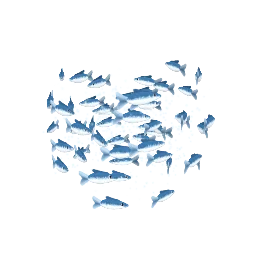
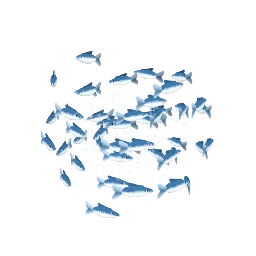
Phase E6b: keep each toy's framing as it was; fish school thumbnail
Hidden effect pieces counted in the camera's framing and shrank some toys
in their frame (the frog, crown, Eiffel Tower, pyramids, Statue of Liberty,
Taj Mahal and sea urchin). They are now built within each toy's resting
bounds and moved or grown out by their parts, or left out of the fit, so
every toy is framed exactly as on main. The school of fish is re-rendered:
its fish are now separate pieces in slightly different places.

Claude-Session: https://claude.ai/code/session_01D75yHccYeL9b2vKuqy5gEB

Changed region(s): [[0.1562, 0.1875, 0.8438, 0.875]]

diff --git a/src/packs/landmarks.js b/src/packs/landmarks.js
@@ -339,6 +339,7 @@ const EIF_BURSTS = [
   { c: add(mul(EIF_VIEW_R, 0.62), [0, 1.7, 0.05]), r: 0.4, a: "#ffb52e", b: "#fff2b0", at: 2.1 },
 ];
 const EIF_SECS = 4.2;
+const EIF_BUILT = 0.6;
 
 // A firework burst: rays of sparks from the centre with bright tips, built
 // at its fullest (drive() grows it with its part's scale and fades it).
@@ -488,8 +489,10 @@ function eiffelBuild(k) {
     }),
   });
   // Fireworks round the tower (drive() pops them one after another).
+  // Each is built at EIF_BUILT of its size, inside the tower's reach, and
+  // grown by its part.
   EIF_BURSTS.forEach((B, i) =>
-    burst(k, k.part(`burst${i}`, { pivot: B.c }), B.c, B.r, B.a, B.b, 0.03),
+    burst(k, k.part(`burst${i}`, { pivot: B.c }), B.c, B.r * EIF_BUILT, B.a, B.b, 0.03),
   );
   // The top: a deck, the lantern and the antenna.
   const iron = (c) => lit(brown, c, 0.62);
@@ -712,8 +715,8 @@ function pyramid(k, cx, cy, cz, half, h, { cap = 0, weight = 1 } = {}) {
 const PYR = {
   r: [0.85, 0, -0.52],
   f: [0.52, 0, 0.85],
-  ground: [1.75, 0, 0.45],
-  hover: [1.75, 1.34, 0.45],
+  ground: [1.6, 0, 0.5],
+  hover: [1.6, 1.34, 0.5],
   secs: 5.4,
 };
 
@@ -827,7 +830,7 @@ function pyramidsBuild(k) {
     const S = 1.45;
     const to = add(PYR.ground, add(add(mul(r, cp[0] * S), [0, cp[1] * S + 0.02, 0]), mul(side, cp[2] * S))); // prettier-ignore
     const n = unit(add(add(mul(r, cn[0]), [0, cn[1], 0]), mul(side, cn[2])));
-    const g = add(PYR.ground, add(mul(r, cp[0] * 1.5), mul(side, cp[2] * 2.5 + (rand() - 0.5) * 0.2))); // prettier-ignore
+    const g = add(PYR.ground, add(mul(r, cp[0]), mul(side, cp[2] * 1.5 + (rand() - 0.5) * 0.14))); // prettier-ignore
     const light = 0.62 + 0.38 * Math.max(0, n[0] * SUN[0] + n[1] * SUN[1] + n[2] * SUN[2]);
     return {
       p: [g[0], -0.025, g[2]],
@@ -1501,46 +1504,41 @@ function libertyBuild(k) {
     params: [0.06 + 0.04 * rand(), rand()],
   }));
   const hp = F.p(add(fb, [0, 0.06, 0]));
-  k.cloud(
-    { share: 0.005, size: 2.6, pattern: false, part: k.part("halo", { pivot: hp }) },
-    (rand) => {
-      // prettier-ignore
-      const d = unit([rand() - 0.5, rand() - 0.5, rand() - 0.5]);
-      const r = 0.1 * Math.sqrt(rand());
-      return {
-        p: add(hp, mul(d, r)),
-        color: mix("#ffe9a0", "#fff8e0", rand()),
-        opacity: 0.16 * (1 - r / 0.12),
-        kind: "fade",
-        channel: 1,
-        params: [0.3, -0.5],
-      };
-    },
-  );
+  // (Built small, within the torch's reach, and grown by its part.)
+  const halo = k.part("halo", { pivot: hp });
+  k.cloud({ share: 0.005, size: 2.6, pattern: false, part: halo }, (rand) => {
+    const d = unit([rand() - 0.5, rand() - 0.5, rand() - 0.5]);
+    const r = 0.055 * Math.sqrt(rand());
+    return {
+      p: add(hp, mul(d, r)),
+      color: mix("#ffe9a0", "#fff8e0", rand()),
+      opacity: 0.16 * (1 - r / 0.066),
+      kind: "fade",
+      channel: 1,
+      params: [0.3, -0.5],
+    };
+  });
   // Sparks drift up and away on the harbour breeze (to the right as seen
   // from the home view), by channel 0.
   k.fitMorphs = false;
   // Each spark's target lies in a plume that widens as it rises and bends
   // with the wind, so the spray streams out of the torch.
-  k.cloud(
-    { share: 0.005, size: 1.3, pattern: false, part: k.part("sparks", { pivot: fp }) },
-    (rand) => {
-      // prettier-ignore
-      const t = Math.pow(rand(), 0.8);
-      const centre = add([0, 0.08 + 0.42 * t, 0], mul([0.85, 0, -0.52], 0.55 * t * t));
-      const d = unit([rand() - 0.5, rand() - 0.5, rand() - 0.5]);
-      const r = (0.02 + 0.17 * t) * Math.sqrt(rand());
-      return {
-        p: add(fp, [(rand() - 0.5) * 0.03, rand() * 0.04, (rand() - 0.5) * 0.03]),
-        color: mix("#ffc23a", "#fff4c8", rand()),
-        opacity: 0.95,
-        size: 1.25 - 0.5 * t,
-        kind: "morph",
-        channel: 0,
-        to: add(fp, add(centre, mul(d, r))),
-      };
-    },
-  );
+  const sparks = k.part("sparks", { pivot: fp });
+  k.cloud({ share: 0.005, size: 1.3, pattern: false, part: sparks }, (rand) => {
+    const t = Math.pow(rand(), 0.8);
+    const centre = add([0, 0.08 + 0.42 * t, 0], mul([0.85, 0, -0.52], 0.55 * t * t));
+    const d = unit([rand() - 0.5, rand() - 0.5, rand() - 0.5]);
+    const r = (0.02 + 0.17 * t) * Math.sqrt(rand());
+    return {
+      p: add(fp, [(rand() - 0.5) * 0.03, rand() * 0.04, (rand() - 0.5) * 0.03]),
+      color: mix("#ffc23a", "#fff4c8", rand()),
+      opacity: 0.95,
+      size: 1.25 - 0.5 * t,
+      kind: "morph",
+      channel: 0,
+      to: add(fp, add(centre, mul(d, r))),
+    };
+  });
   // The left arm cradling the tablet.
   const armL = spline([
     [0.11, 0.49, 0],
@@ -1987,23 +1985,20 @@ function pisaBuild(k) {
       },
     });
     const foot = [land[0], 0.03, land[2]];
-    k.cloud(
-      { share: 0.004, size: 1.6, pattern: false, part: k.part(`dust${i}`, { pivot: foot }) },
-      (rand) => {
-        // prettier-ignore
-        const a = rand() * TAU;
-        const d = r * (1.2 + 1.6 * rand());
-        return {
-          p: add(foot, [
-            Math.cos(a) * d,
-            0.01 + 0.06 * rand() * (1 - (d - r) / (3 * r)),
-            Math.sin(a) * d,
-          ]),
-          color: mix("#c9b48c", "#e8dcc0", rand()),
-          opacity: 0.45,
-        };
-      },
-    );
+    const dust = k.part(`dust${i}`, { pivot: foot });
+    k.cloud({ share: 0.004, size: 1.6, pattern: false, part: dust }, (rand) => {
+      const a = rand() * TAU;
+      const d = r * (1.2 + 1.6 * rand());
+      return {
+        p: add(foot, [
+          Math.cos(a) * d,
+          0.01 + 0.06 * rand() * (1 - (d - r) / (3 * r)),
+          Math.sin(a) * d,
+        ]),
+        color: mix("#c9b48c", "#e8dcc0", rand()),
+        opacity: 0.45,
+      };
+    });
   });
 }
 
@@ -2933,7 +2928,7 @@ function benBuild(k) {
 
 // Moonlight at the Taj Mahal: the moon hangs behind it, left of the dome as
 // seen from the home view.
-const TAJ = { moon: [-1.02, 1.45, -1.15], secs: 5.2 };
+const TAJ = { moon: [-0.98, 1.42, -0.95], secs: 5.2 };
 
 function tajBuild(k) {
   // Night falls on channel 1 (a cool dusk, drive()'s negative glow) on
@@ -3209,29 +3204,26 @@ function tajBuild(k) {
   });
   k.cloud({ share: 0.006, size: 3, pattern: false, part: moon, fit: false }, (rand) => {
     const d = unit([rand() - 0.5, rand() - 0.5, rand() - 0.5]);
-    const r = 0.15 + 0.16 * Math.sqrt(rand());
+    const r = 0.15 + 0.11 * Math.sqrt(rand());
     return {
       p: add(TAJ.moon, mul(d, r)),
       color: "#dfe8ff",
-      opacity: 0.14 * (1 - (r - 0.15) / 0.18),
+      opacity: 0.14 * (1 - (r - 0.15) / 0.13),
       kind: "fade",
       channel: 0,
       params: [0.05, -0.5],
     };
   });
-  k.cloud(
-    { share: 0.006, size: 1.2, pattern: false, part: k.part("shimmer", { pivot: [0, g, 1.9] }) },
-    (rand) => ({
-      // prettier-ignore
-      p: [(rand() - 0.5) * 0.12 * (0.4 + rand()), g + 0.01, 1.16 + rand() * 1.48],
-      dir: [1, 0, 0],
-      stretch: 2.5,
-      color: mix("#e8efff", "#ffffff", rand()),
-      opacity: 0.85,
-      kind: "wave",
-      params: [0.006, rand() * TAU],
-    }),
-  );
+  const shimmer = k.part("shimmer", { pivot: [0, g, 1.9] });
+  k.cloud({ share: 0.006, size: 1.2, pattern: false, part: shimmer }, (rand) => ({
+    p: [(rand() - 0.5) * 0.12 * (0.4 + rand()), g + 0.01, 1.16 + rand() * 1.48],
+    dir: [1, 0, 0],
+    stretch: 2.5,
+    color: mix("#e8efff", "#ffffff", rand()),
+    opacity: 0.85,
+    kind: "wave",
+    params: [0.006, rand() * TAU],
+  }));
 }
 
 // ---- Castle ------------------------------------------------------------------------------------
@@ -3873,7 +3865,7 @@ export const RECIPES = {
         const u = on ? (s - B.at) / 1.8 : -1;
         const live = u > 0 && u < 1;
         out.parts[`burst${i}`] = {
-          scale: 0.06 + 0.94 * easeOut(clamp(u / 0.2, 0, 1)),
+          scale: (0.06 + 0.94 * easeOut(clamp(u / 0.2, 0, 1))) / EIF_BUILT,
           offset: [0, -0.16 * Math.max(0, u) ** 2, 0],
           visible: live ? 1 - band(u, 0.5, 1) : 0,
         };
@@ -3987,7 +3979,7 @@ export const RECIPES = {
       const big = on ? easeOut(band(s, 0, 0.35)) * (1 - easeInOut(band(s, 2.8, 3.7))) : 0;
       const flick = 1 + 0.08 * Math.sin(info.time * 23) * big;
       out.parts.flame = { scale: (1 + 1.2 * big) * flick };
-      out.parts.halo = { scale: 0.6 + 1.1 * big, visible: big > 0.01 ? 1 : 0 };
+      out.parts.halo = { scale: 1.1 + 2 * big, visible: big > 0.01 ? 1 : 0 };
       const drift = on ? easeOut(band(s, 0.15, 3.3)) : 0;
       const live = on && s < 3.3;
       out.parts.sparks = { visible: live ? band(s, 0.1, 0.2) * (1 - band(s, 2.3, 3.2)) : 0 };

diff --git a/src/packs/animals.js b/src/packs/animals.js
@@ -170,6 +170,7 @@ const FROG = (() => {
     hinge,
     open,
     catch: catchAt,
+    flyBuilt: [catchAt[0], catchAt[1], 0.45],
     from: [-0.75, 0.42, -0.1],
     tipRest,
     tipFull: unJaw(catchAt),
@@ -1705,6 +1706,9 @@ export const RECIPES = {
       }
       // Each spine tilts sideways (round the urchin) on its base by one of
       // channels 0 to 2, picked by its sector, so the spine stays straight.
+      // (The tilted tips stay within the urchin's reach, so they are left
+      // out of the fit.)
+      k.fitMorphs = false;
       for (const sp of spines) {
         const a = Math.atan2(sp.base[0], sp.base[2]);
         sp.side = [Math.cos(a), 0, -Math.sin(a)];
@@ -1788,7 +1792,7 @@ export const RECIPES = {
         fp = vec.add(FROG.hinge, quatRotate(quatAxisAngle([1, 0, 0], jaw), vec.sub(tip, FROG.hinge))); // prettier-ignore
       }
       out.parts.fly = {
-        offset: vec.sub(fp, FROG.catch),
+        offset: vec.sub(fp, FROG.flyBuilt),
         quat: quatAxisAngle([0, 1, 0], 0.4 * Math.sin(s * 9)),
         visible: on && s < 1.58 ? 1 : 0,
       };
@@ -1883,10 +1887,12 @@ export const RECIPES = {
         };
       });
       // The fly, built where the tongue catches it.
-      const fly = k.part("fly", { pivot: FROG.catch });
-      const F = { part: fly, weight: 12, flat: 0.3, pattern: false, fit: false };
-      const at = (p) => vec.add(FROG.catch, p);
-      k.add(k.ellipsoid(0.045, 0.034, 0.058), { ...F, pos: FROG.catch, color: (c) => lit(c, "#2c2c34", 0.4, 0.5) }); // prettier-ignore
+      // The fly (hidden at rest), built within the frog's own bounds (so it
+      // takes no room in the frame) and carried out to where it is caught.
+      const fly = k.part("fly", { pivot: FROG.flyBuilt });
+      const F = { part: fly, weight: 12, flat: 0.3, pattern: false };
+      const at = (p) => vec.add(FROG.flyBuilt, p);
+      k.add(k.ellipsoid(0.045, 0.034, 0.058), { ...F, pos: FROG.flyBuilt, color: (c) => lit(c, "#2c2c34", 0.4, 0.5) }); // prettier-ignore
       k.add(k.sphere(0.03), { ...F, pos: at([0, 0.006, 0.058]), color: "#9a2424" });
       for (const sx of [-1, 1])
         k.add(k.ellipsoid(0.07, 0.006, 0.034), {
@@ -1898,9 +1904,9 @@ export const RECIPES = {
         });
       // The throat sac that blows up for a croak (hidden at rest).
       const sac = k.part("sac", { pivot: [0, -0.02, 0.42] });
-      k.add(k.sphere(0.17), {
+      k.add(k.sphere(0.15), {
         part: sac,
-        pos: [0, -0.07, 0.47],
+        pos: [0, -0.07, 0.44],
         flat: 0.3,
         pattern: false,
         color: (c) => lit(c, "#f6efc8", 0.3, 0.6),

diff --git a/src/packs/medieval.js b/src/packs/medieval.js
@@ -1370,13 +1370,13 @@ export const RECIPES = {
       k.cloud({ share: 0.012, size: 2, pattern: false }, (rand, j) => {
         const i = j % 8;
         const a = (i / 8) * TAU;
-        const r = R(-0.13) + 0.05;
+        const r = R(-0.13) + 0.02;
         const d = vec.unit([rand() - 0.5, rand() - 0.5, rand() - 0.5]);
-        const q = 0.12 * Math.sqrt(rand());
+        const q = 0.075 * Math.sqrt(rand());
         return {
           p: vec.add([Math.sin(a) * r, -0.13, Math.cos(a) * r], vec.mul(d, q)),
-          color: mix(gemCols[i % 4], "#ffffff", 0.25 + 0.6 * (1 - q / 0.12)),
-          opacity: 0.75 * (1 - q / 0.13),
+          color: mix(gemCols[i % 4], "#ffffff", 0.25 + 0.6 * (1 - q / 0.075)),
+          opacity: 0.75 * (1 - q / 0.085),
           kind: "fade",
           channel: 0,
           params: [0.03 + (i / 8) * 0.85, -0.08],
@@ -1386,9 +1386,9 @@ export const RECIPES = {
       // rest).
       k.cloud({ share: 0.004, size: 1.1, pattern: false, part: k.part("motes") }, (rand) => {
         const a = rand() * TAU;
-        const r = 0.62 + 0.3 * rand();
+        const r = 0.5 + 0.18 * rand();
         return {
-          p: [Math.sin(a) * r, -0.4 + rand() * 0.5, Math.cos(a) * r],
+          p: [Math.sin(a) * r, -0.3 + rand() * 0.4, Math.cos(a) * r],
           color: mix("#ffd35a", "#fffbe8", rand()),
           opacity: 0.95,
           kind: "rise",
